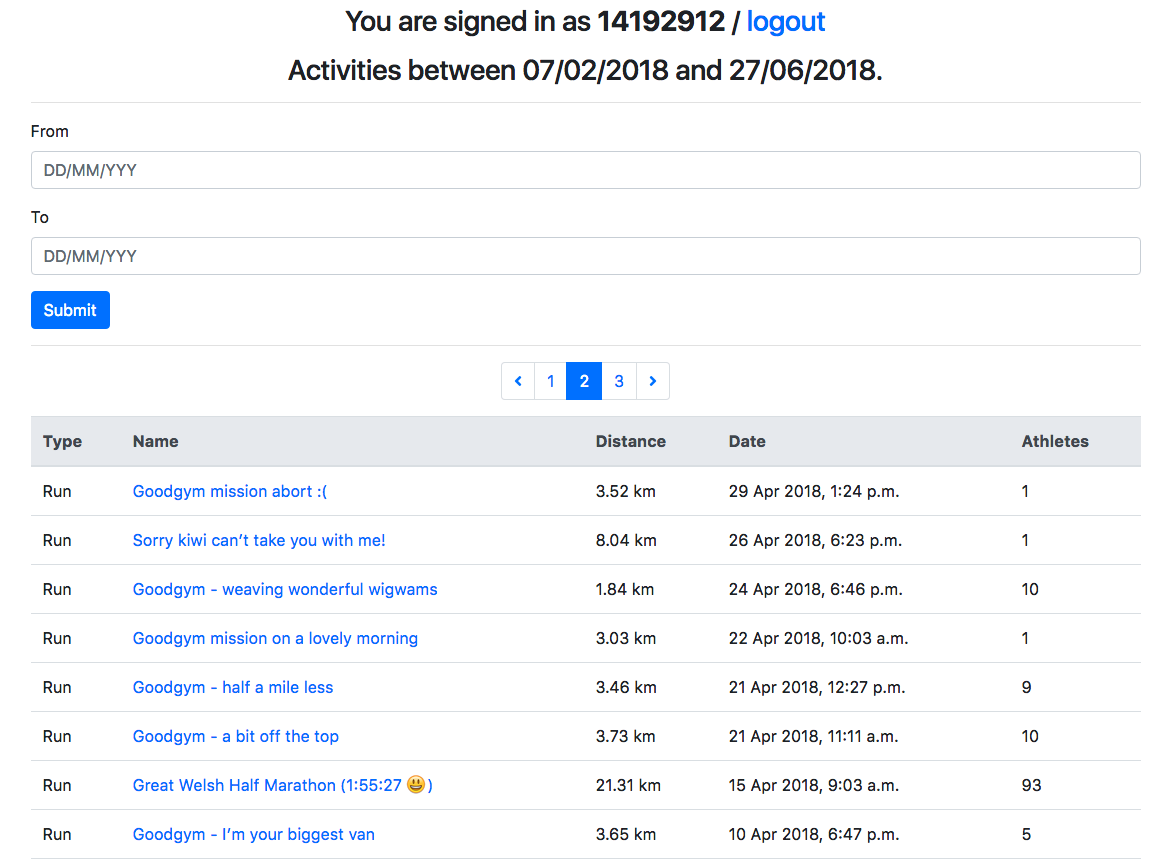
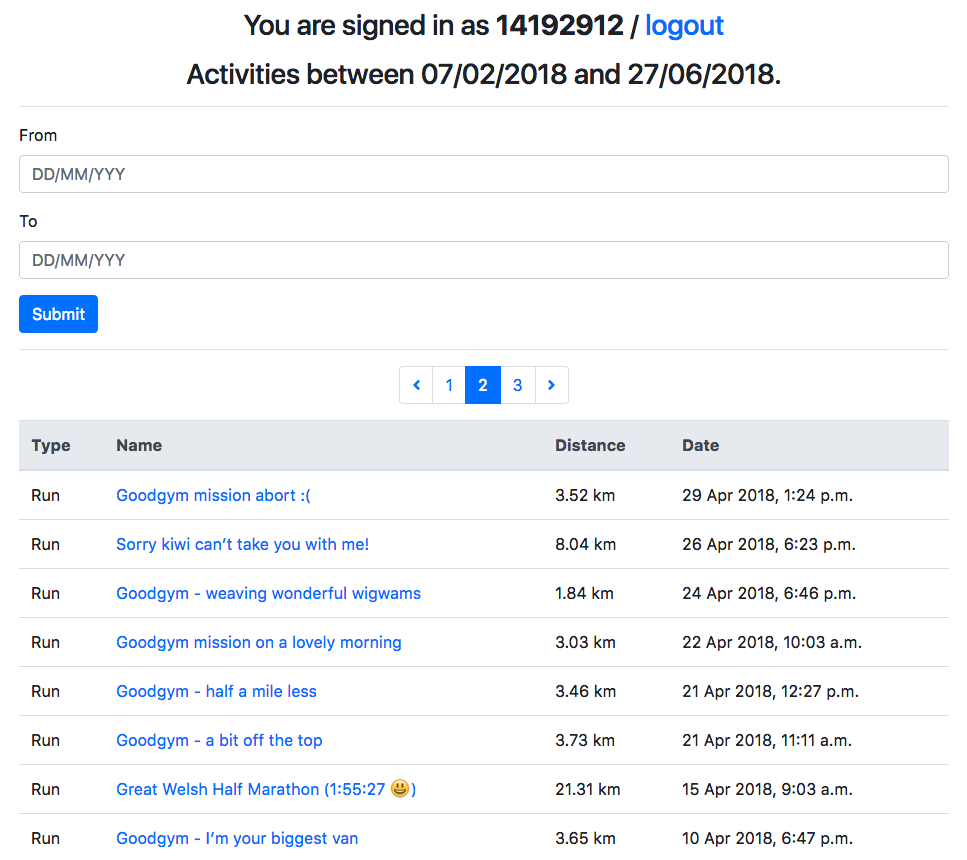
Removed Athletes from results

diff --git a/core/templates/core/home.html b/core/templates/core/home.html
@@ -44,7 +44,6 @@
             <th>Name</th>
             <th>Distance</th>
             <th>Date</th>
-            <th>Athletes</th>
         </tr>
     </thead>
 {% for activity in activities %}
@@ -53,7 +52,6 @@
         <td><a href="{{ activity.link }}">{{ activity.name }}</a></td>
         <td>{{ activity.distance }}</td>
         <td>{{ activity.date }}</td>
-        <td>{{ activity.athlete_count }}</td>
     </tr>
 {% endfor %}
 </table>

diff --git a/core/views.py b/core/views.py
@@ -62,7 +62,6 @@ def home(request):
                     "type": activity.type,
                     "link": "https://www.strava.com/activities/{}".format(activity.id),
                     "date": activity.start_date_local,
-                    "athlete_count": activity.athlete_count,
                 }
             )
 
